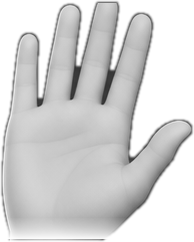
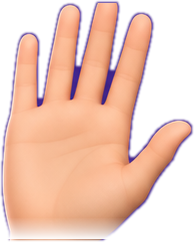
3D page: black & white by default, cursor brings the violet back (full colour on card hover)
Claude-Session: https://claude.ai/code/session_01E6B3CowpMrQerwAdNKFbV7

diff --git a/docs/index.html b/docs/index.html
@@ -8,47 +8,52 @@
 <style>
   @font-face{font-family:PX;src:url(fonts/pixelify-sans-latin-400-normal.woff2) format("woff2")}
   @font-face{font-family:PX;font-weight:700;src:url(fonts/pixelify-sans-latin-700-normal.woff2) format("woff2")}
-  :root{--ink:#090909;--panel:#1a1a1a;--edge:#090909;--hi:#7c7c7c;--lo:#1f1f1f;--lav:#cfcfcf;--gold:#d6d6d6;--splash:#f3f3f3}
+  :root{--ink:#0c0619;--panel:#211538;--edge:#0b0716;--hi:#9a6ad6;--lo:#2a1748;--lav:#d8c9ed;--gold:#ffd84a;--splash:#ffff55}
   *{box-sizing:border-box;margin:0;padding:0}
   html,body{height:100%}
-  body{background:radial-gradient(900px 600px at 70% 40%,rgba(94,94,94,.35),transparent 70%),linear-gradient(180deg,#090909,#131313 55%,#1f1f1f);
-       color:#ffffff;font-family:PX,"Courier New",monospace;min-height:100svh;overflow-x:hidden}
+  body{background:radial-gradient(900px 600px at 70% 40%,rgba(122,76,196,.35),transparent 70%),linear-gradient(180deg,#0c0619,#1a0d33 55%,#2b1658);
+       color:#fff;font-family:PX,"Courier New",monospace;min-height:100svh;overflow-x:hidden}
+  /* black & white layer over the violet page; a hole follows the cursor and lets the violet through */
+  #mono{position:fixed;inset:0;z-index:5;pointer-events:none;background:#808080;mix-blend-mode:saturation;
+    --mx:-999px;--my:-999px;--r:0px;
+    -webkit-mask-image:radial-gradient(circle var(--r) at var(--mx) var(--my),transparent 0 60%,#000 100%);
+            mask-image:radial-gradient(circle var(--r) at var(--mx) var(--my),transparent 0 60%,#000 100%)}
   canvas#fx{position:fixed;inset:0;width:100%;height:100%;pointer-events:none;z-index:0}
   .ground{position:fixed;left:0;right:0;bottom:0;height:56px;z-index:0;image-rendering:pixelated;
-    background:repeating-linear-gradient(90deg,#454545 0 28px,#5e5e5e 28px 56px,#2d2d2d 56px 84px,#535353 84px 112px);
-    box-shadow:inset 0 6px 0 #7c7c7c, inset 0 -6px 0 #1f1f1f}
+    background:repeating-linear-gradient(90deg,#5c35a0 0 28px,#7a4cc4 28px 56px,#3d2363 56px 84px,#6a43b4 84px 112px);
+    box-shadow:inset 0 6px 0 #9a6ad6, inset 0 -6px 0 #2a1748}
   main{position:relative;z-index:1;max-width:1080px;margin:0 auto;padding:56px 20px 110px;display:grid;grid-template-columns:1.1fr .9fr;gap:48px;align-items:center;min-height:100svh}
-  .logo{font-weight:700;font-size:clamp(40px,6.2vw,80px);white-space:nowrap;line-height:.95;color:#e1e1e1;letter-spacing:1px;position:relative;
-    text-shadow:0 6px 0 #5e5e5e,0 10px 0 #2d2d2d,0 13px 0 #0e0e0e}
-  .splash{position:absolute;right:-6px;top:-30px;font-size:clamp(18px,2.4vw,26px);color:var(--splash);text-shadow:3px 3px 0 #3c3c3c;
+  .logo{font-weight:700;font-size:clamp(40px,6.2vw,80px);white-space:nowrap;line-height:.95;color:#e9dcff;letter-spacing:1px;position:relative;
+    text-shadow:0 6px 0 #7a4cc4,0 10px 0 #3d2363,0 13px 0 #120a24}
+  .splash{position:absolute;right:-6px;top:-30px;font-size:clamp(18px,2.4vw,26px);color:var(--splash);text-shadow:3px 3px 0 #3f3f15;
     transform:rotate(-14deg);animation:pulse .55s ease-in-out infinite alternate;white-space:nowrap}
   @keyframes pulse{from{transform:rotate(-14deg) scale(.94)}to{transform:rotate(-14deg) scale(1.06)}}
-  .sub{font-weight:700;font-size:clamp(18px,2.2vw,24px);margin:30px 0 8px;text-shadow:3px 3px 0 #1f1f1f}
-.pr{color:#7c7c7c}
-  .caret{display:inline-block;width:.55em;height:.9em;margin-left:4px;vertical-align:-.08em;background:#e1e1e1;animation:blink 1s step-end infinite}
+  .sub{font-weight:700;font-size:clamp(18px,2.2vw,24px);margin:30px 0 8px;text-shadow:3px 3px 0 #2a1748}
+.pr{color:#9a6ad6}
+  .caret{display:inline-block;width:.55em;height:.9em;margin-left:4px;vertical-align:-.08em;background:#e9dcff;animation:blink 1s step-end infinite}
   @keyframes blink{50%{opacity:0}}
   .sub{min-height:1.4em}
-  .sub2{color:#c0c0c0;font-size:17px;text-shadow:2px 2px 0 #0e0e0e}
+  .sub2{color:#cbb8ef;font-size:17px;text-shadow:2px 2px 0 #120a24}
   .toast{display:flex;gap:16px;align-items:center;background:var(--panel);margin:26px 0;padding:14px 18px;max-width:520px;
-    box-shadow:inset 0 0 0 3px var(--edge),inset 0 0 0 6px #6d6d6d,inset 0 0 0 9px #2d2d2d}
-  .toast .ic{width:52px;height:52px;flex:none;background:#454545;display:grid;place-items:center;font-size:28px;
+    box-shadow:inset 0 0 0 3px var(--edge),inset 0 0 0 6px #8a5cc5,inset 0 0 0 9px #3a2363}
+  .toast .ic{width:52px;height:52px;flex:none;background:#5c35a0;display:grid;place-items:center;font-size:28px;
     clip-path:polygon(16% 0,84% 0,100% 16%,100% 84%,84% 100%,16% 100%,0 84%,0 16%)}
   .toast b{display:block;color:var(--gold);font-size:14px;margin-bottom:2px}
   .toast span{font-size:16px;line-height:1.35}
   .btns{display:grid;grid-template-columns:repeat(2,minmax(0,220px));gap:10px}
-  .btn{display:flex;align-items:center;justify-content:center;height:46px;color:#ffffff;text-decoration:none;font-weight:700;font-size:17px;background:#454545;
-    text-shadow:2px 2px 0 #1f1f1f;box-shadow:inset 0 0 0 3px var(--edge),inset 4px 4px 0 3px var(--hi),inset -4px -4px 0 3px var(--lo);transition:transform .08s}
-  .btn:hover,.btn:focus-visible{background:#5e5e5e;outline:none;box-shadow:inset 0 0 0 3px #ffffff,inset 4px 4px 0 3px #9a9a9a,inset -4px -4px 0 3px var(--lo)}
+  .btn{display:flex;align-items:center;justify-content:center;height:46px;color:#fff;text-decoration:none;font-weight:700;font-size:17px;background:#5c35a0;
+    text-shadow:2px 2px 0 #2a1748;box-shadow:inset 0 0 0 3px var(--edge),inset 4px 4px 0 3px var(--hi),inset -4px -4px 0 3px var(--lo);transition:transform .08s}
+  .btn:hover,.btn:focus-visible{background:#7a4cc4;outline:none;box-shadow:inset 0 0 0 3px #fff,inset 4px 4px 0 3px #b48ae8,inset -4px -4px 0 3px var(--lo)}
   .btn:active{transform:translateY(2px)}
-  .hint{margin-top:18px;color:#868686;font-size:14px}
+  .hint{margin-top:18px;color:#8f7fb3;font-size:14px}
 
   /* 3D card */
   .stage{perspective:1100px;display:flex;justify-content:center}
   .card{position:relative;width:min(360px,74vw);aspect-ratio:4/5;transform-style:preserve-3d;cursor:pointer;
     transform:rotateX(var(--rx,0deg)) rotateY(var(--ry,0deg));transition:transform .45s cubic-bezier(.2,.7,.2,1)}
   .card.live{transition:transform .08s linear}
-  .face{position:absolute;inset:0;padding:12px;background:#454545;
-    box-shadow:inset 6px 6px 0 var(--hi),inset -6px -6px 0 var(--lo),0 0 0 5px #0e0e0e,0 34px 50px -18px rgba(0,0,0,.7)}
+  .face{position:absolute;inset:0;padding:12px;background:#5c35a0;
+    box-shadow:inset 6px 6px 0 var(--hi),inset -6px -6px 0 var(--lo),0 0 0 5px #120a24,0 34px 50px -18px rgba(0,0,0,.7)}
   .art{position:relative;width:100%;height:100%;overflow:hidden}
   .art img.bg{width:100%;height:100%;display:block;object-fit:cover}
   .hand{position:absolute;animation:wave 4s ease-in-out 1s infinite}
@@ -58,12 +63,12 @@
   .glare{position:absolute;inset:12px;pointer-events:none;opacity:var(--go,0);transition:opacity .3s;
     background:radial-gradient(circle at var(--gx,50%) var(--gy,30%),rgba(255,255,255,.28),transparent 45%);mix-blend-mode:soft-light}
   .tag{position:absolute;pointer-events:none;font-weight:700;font-size:15px;padding:7px 11px;background:var(--panel);
-    box-shadow:inset 0 0 0 3px var(--edge),inset 0 0 0 6px #2f2f2f;text-shadow:2px 2px 0 #0e0e0e}
-  .t1{right:-18px;top:22px;transform:translateZ(90px);color:#c4c4c4}
-  .t2{left:-26px;bottom:88px;transform:translateZ(70px);color:#d2d2d2}
-  .t3{left:16px;right:16px;bottom:-22px;transform:translateZ(110px);text-align:center;color:#ffffff;font-size:18px}
-  .xp{position:absolute;left:16px;right:16px;bottom:-40px;height:10px;transform:translateZ(110px);background:#090909;box-shadow:0 0 0 2px #090909}
-  .xp i{position:absolute;inset:2px;width:calc(var(--xp,0) * 1%);background:linear-gradient(90deg,#7c7c7c,#b7b7b7);transition:width .25s}
+    box-shadow:inset 0 0 0 3px var(--edge),inset 0 0 0 6px #5a12d6;text-shadow:2px 2px 0 #120a24}
+  .t1{right:-18px;top:22px;transform:translateZ(90px);color:#d6b8ff}
+  .t2{left:-26px;bottom:88px;transform:translateZ(70px);color:#7fe7f2}
+  .t3{left:16px;right:16px;bottom:-22px;transform:translateZ(110px);text-align:center;color:#fff;font-size:18px}
+  .xp{position:absolute;left:16px;right:16px;bottom:-40px;height:10px;transform:translateZ(110px);background:#0b0716;box-shadow:0 0 0 2px #0b0716}
+  .xp i{position:absolute;inset:2px;width:calc(var(--xp,0) * 1%);background:linear-gradient(90deg,#9a6ad6,#cfa8ff);transition:width .25s}
 
   @media (max-width:860px){
     main{grid-template-columns:1fr;gap:34px;padding-top:40px;text-align:center}
@@ -79,13 +84,14 @@
 </head>
 <body>
 <canvas id="fx" aria-hidden="true"></canvas>
+<div id="mono" aria-hidden="true"></div>
 <div class="ground" aria-hidden="true"></div>
 <main>
   <section>
     <h1 class="logo">ANN ROSE P T<span class="splash">Code + Design!</span></h1>
     <p class="sub" aria-label="AI/ML &amp; Software Developer, UI/UX &amp; Poster Designer, Full-Stack App Builder"><span class="pr">&gt; </span><span id="type">AI/ML &amp; Software Developer</span><i class="caret"></i></p>
     <p class="sub2">B.Tech CSE &middot; Christ College of Engineering, Kerala</p>
-    <div class="toast"><div class="ic" aria-hidden="true">&#5f5f5f;</div>
+    <div class="toast"><div class="ic" aria-hidden="true">&#127942;</div>
       <div><b>Challenge Complete!</b><span>1st Runner-Up &middot; PFRDA National Hackathon, IIT Kanpur</span></div></div>
     <nav class="btns">
       <a class="btn" href="https://github.com/AnnRosePT">GitHub</a>
@@ -93,7 +99,7 @@
       <a class="btn" href="https://www.linkedin.com/in/ann-rose-pt">LinkedIn</a>
       <a class="btn" href="mailto:annrosept007@gmail.com">Email</a>
     </nav>
-    <p class="hint" id="hint">Move your cursor &mdash; the particles follow you. Click the card to say hi.</p>
+    <p class="hint" id="hint">Move your cursor to bring the colour back. Hover the card to light it all up; click to say hi.</p>
   </section>
 
   <div class="stage">
@@ -141,6 +147,22 @@
       setTimeout(step, wait);
     })();
   }
+  // ---------- black & white until the cursor brings the violet back
+  const mono = document.getElementById('mono');
+  let R = 0, Rt = 0, mx = -999, my = -999;
+  function colorAt(x, y, overCard) { mx = x; my = y; Rt = overCard ? Math.hypot(innerWidth, innerHeight) * 1.2 : 240; }
+  function fadeOut() { Rt = 0; }
+  (function grow() {
+    R += (Rt - R) * .12;
+    mono.style.setProperty('--r', R.toFixed(1) + 'px');
+    mono.style.setProperty('--mx', mx + 'px'); mono.style.setProperty('--my', my + 'px');
+    requestAnimationFrame(grow);
+  })();
+  addEventListener('pointermove', e => colorAt(e.clientX, e.clientY, card.contains(e.target)));
+  document.addEventListener('pointerleave', fadeOut);
+  addEventListener('touchmove', e => { const t = e.touches[0]; colorAt(t.clientX, t.clientY, card.contains(document.elementFromPoint(t.clientX, t.clientY))); }, { passive: true });
+  addEventListener('touchend', () => setTimeout(fadeOut, 600));
+  addEventListener('blur', fadeOut);
   // ---------- 3D tilt
   const MAX = 16;
   function tilt(nx, ny) {
@@ -155,7 +177,7 @@
   // ---------- portal particles (canvas)
   const cv = document.getElementById('fx'), ctx = cv.getContext('2d');
   let W = 0, H = 0, DPR = Math.min(2, devicePixelRatio || 1);
-  const COLS = ['#b7b7b7', '#9a9a9a', '#bcbcbc', '#7c7c7c', '#ffffff', '#5e5e5e'];
+  const COLS = ['#cfa8ff', '#b48ae8', '#e9a8ff', '#9a6ad6', '#ffffff', '#7a4cc4'];
   const P = [];
   const mouse = { x: -9999, y: -9999, on: false };
   function resize() {
@@ -225,7 +247,7 @@
     if (!reduce) for (let i = 0; i < 70; i++) spawn(e.clientX, e.clientY, true);
     seen = Math.min(100, seen + 15); xp.parentElement.style.setProperty('--xp', seen.toFixed(0));
   });
-  if (coarse) document.getElementById('hint').textContent = 'Drag across the screen — the particles follow. Tap the card to say hi.';
+  if (coarse) document.getElementById('hint').textContent = 'Drag across the screen to bring the colour back. Tap the card to say hi.';
 })();
 </script>
 </body>
